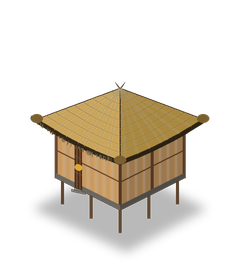
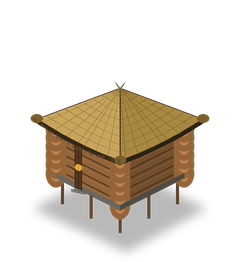
房屋全部改為原木木屋(圓木牆、木瓦/茅草頂、木格窗) v80.37-7
Claude-Session: https://claude.ai/code/session_01TfDhagCiaMjipPx8vrMTLg

diff --git a/sw.js b/sw.js
@@ -2,7 +2,7 @@
 // 讓遊戲可以「安裝到桌面/主畫面」成為獨立App，並提供離線快取(圖片/音效載入過一次後，
 // 離線或網路不穩時也能照常遊玩；index.html本身每次都優先抓最新版，確保更新後玩家能立刻拿到新內容)。
 
-const CACHE_VERSION = 'v80.37-6';           // 每次正式更新版本號時手動遞增，瀏覽器才會清掉舊快取換新的
+const CACHE_VERSION = 'v80.37-7';           // 每次正式更新版本號時手動遞增，瀏覽器才會清掉舊快取換新的
 const SHELL_CACHE = 'lineage-pixel-shell-' + CACHE_VERSION;
 const ASSET_CACHE  = 'lineage-pixel-assets-' + CACHE_VERSION;
 

diff --git a/index.html b/index.html
@@ -11370,7 +11370,7 @@ function drawSlotEmpty(x){ x.clearRect(0,0,200,200); }
 })();
 /* ============ 更新系統（登入首頁） ============ */
 // 版本號：每次正式更新時，這裡和 sw.js 的 CACHE_VERSION 一起遞增
-const GAME_VER='v80.37-6';
+const GAME_VER='v80.37-7';
 let _updNew=null;
 async function checkUpdate(manual){
   const msg=document.getElementById('updMsg'), btn=document.getElementById('updBtn');
